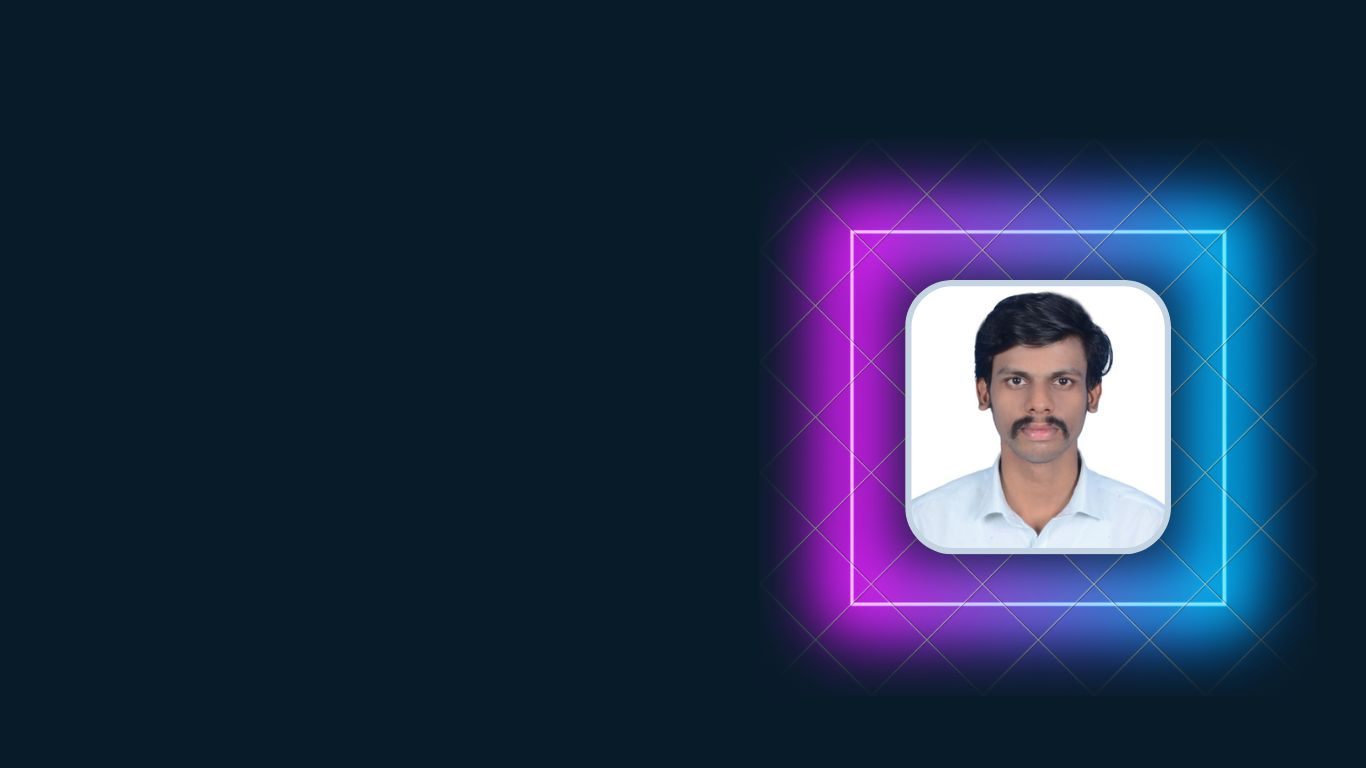
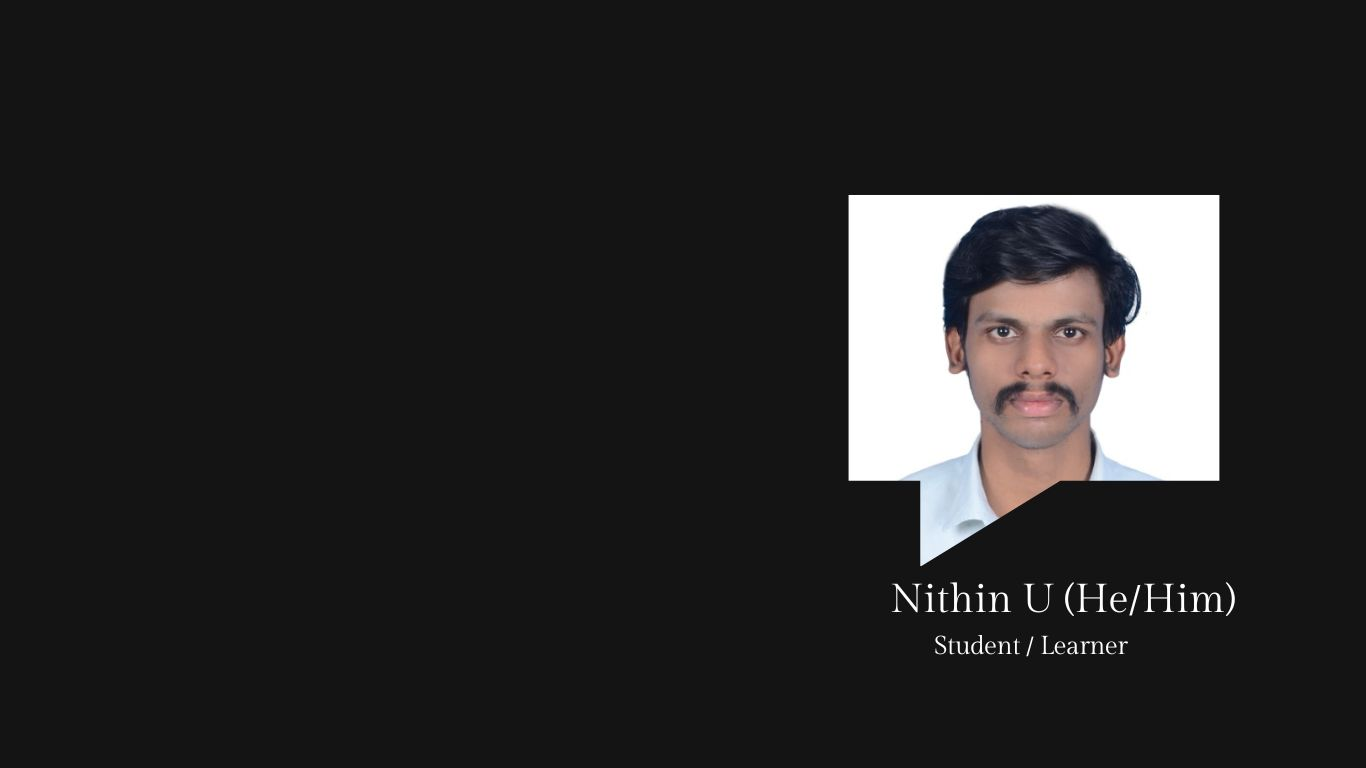
Update

Changed region(s): [[0.5534, 0.1562, 0.9839, 0.9062]]

diff --git a/style.css b/style.css
@@ -7,7 +7,7 @@
 
 body{
     color: aliceblue;
-    background: #081b29;
+    background: #141414;
 }
 
 .header{
@@ -16,7 +16,7 @@ body{
     left: 0;
     width: 100%;
     padding: 20px 10%;
-    background: #051129;
+    background: #081b29;
     display: flex;
     justify-content: space-between;
     align-items: center;
@@ -53,13 +53,13 @@ body{
 }
 
 #home:hover{
-    color: #0ef;
+    color:    #FFD700 ;
 }
 
 
 
 .navbar a:hover{
-    color: #0f0;
+    color:    #FFD700 ;
     cursor: pointer;
 }
 
@@ -93,7 +93,7 @@ body{
 }
 
 .home-content h3 span{
-    color: #0ef;
+    color:    #FFD700 ;
 }
 
 .home-content h1{
@@ -115,10 +115,10 @@ body{
     width: 40px;
     height: 40px;
     background: transparent;
-    border: 2px solid #0ef;
+    border: 2px solid    #FFD700 ;
     border-radius: 50%;
     font-size: 20px;
-    color: #0ef;
+    color:    #FFD700 ;
     text-decoration: none;
     margin: 30px 15px 30px 0;
 
@@ -130,15 +130,15 @@ body{
 }
 
 .home-sci a:hover{
-    background: #0ef;
+    background:    #FFD700 ;
     color: black;
-    box-shadow: 0 0 20px #0ef;
+    box-shadow: 0 0 20px    #FFD700 ;
 }
 
 .btn-box{
     display: inline-block;
     padding: 12px 28px;
-    background: #0ef;
+    background:    #FFD700 ;
     border-radius: 40px;
     font-size: 16px;
     color: black;
@@ -149,8 +149,8 @@ body{
     opacity: 0;
     animation: top 1s ease forwards;
     animation-delay: 2s;
-    box-shadow: 0 0 5px #0ef
-    0 0 25px #0ef;
+    box-shadow: 0 0 5px    #FFD700 
+    0 0 25px    #FFD700 ;
 }
 
 .btn-box:hover{
@@ -277,7 +277,7 @@ body{
 }
 
 .about-text h2 span{
-    color: #0ef;
+    color:    #FFD700 ;
 }
 
 .about-text h4{
@@ -303,7 +303,7 @@ body{
 }
 
 .skilltitle span{
-    color: #0ef;
+    color:    #FFD700 ;
 }
 
 .skill{
@@ -374,7 +374,7 @@ body{
 
 .Technical-bar .bar .percent-line span{
     height: 100%;
-    background-color: #0ef;
+    background-color:    #FFD700 ;
     position: absolute;
     border-radius: 10px;
     animation: animi 1s 1s cubic-bezier(1,0,0.5,1) forwards;
@@ -498,7 +498,7 @@ body{
 
 .path{
     stroke-width: 10;
-    stroke: #0ef;
+    stroke:    #FFD700 ;
     fill: transparent;
     stroke-dasharray: 502;
     stroke-dashoffset: 502;
@@ -538,7 +538,7 @@ body{
 
 @keyframes path5 {
     100%{
-        stroke-dashoffset: 130;
+        stroke-dashoffset: 135;
     }
 }
 
@@ -580,7 +580,7 @@ input[type=text], select, textarea {
   }
   
   input[type=submit] {
-    background-color: #0ef;
+    background-color:    #FFD700 ;
     padding: 12px 20px;
     border: none;
     border-radius: 4px;
@@ -594,7 +594,7 @@ input[type=text], select, textarea {
   }
   
   input[type=submit]:hover {
-    background-color: #0ef;
+    background-color:    #FFD700 ;
   }
   
   .contactcontainer{
@@ -604,3 +604,21 @@ input[type=text], select, textarea {
     width: 500px;
     margin-left: 350px;
   }
+
+
+  .main-text{
+    padding-top: 130px;
+    margin-top: 200px;
+  }
+
+  .main-text h2{
+    font-size: 60px;
+    line-height: 1;
+    text-align: center;
+  }
+
+  .main-text h2 span{
+    color:    #FFD700 ;
+  }
+
+  

diff --git a/index.html b/index.html
@@ -48,13 +48,13 @@
         <!-- About page-->
         <section class="about" id="about" >
             <div class="about-img">
-                <img src="Assets/ProfileAbout.jpg">
+                <img src="Assets/ImageProfile.jpg">
             </div>
             <div class="about-text">
                 <h2>About<span>Me</span></h2>
                 <h4>Student from K.Ramakrishnan College of Technology!</h4>
                 <p align="justify">
-                    I am 3rd Year Student, who is passionated on programming and seeking for a role inorder with 
+                    Vice Precident of CSE Mastro Club of KRCT Pursing Final Year Computer Science Engineering, who is passionated on programming and seeking for a role inorder with 
                     strong and desire to solve various task in the field of software development. Throughout my 
                     academic play vital role in software development and implemented various projects. I am a 
                     hard worker and always looking for new technologies to improve my level of programming also 
@@ -208,6 +208,45 @@
             </div>
             </div>
 
+        </section>
+
+        <!-- Projects -->
+        <section>
+            <div id="portfolio" id="project">
+                <div class="main-text" id="project">
+                    <h2>Acadamic<span> Projects</span></h2>
+
+                    <div class="protfolio-context">
+
+                        <!-- <div class="'row">
+                            <img src="Assets/demo.jpg" width="40px">
+                            <div class="layer">
+                                <h5>Title</h5>
+                                <p>Description</p>
+                                <a href="#"><i class="bx bx-link-external" style="color: white;"></i></a>
+                            </div>
+                        </div> -->
+                        <!-- <div class="Technical-bar">
+                        <div class="bar">
+                            <i style="color: rgb(0, 255, 251);" class="bx bxl-java"></i>
+                            <div class="info">
+                                <span>JAVA</span>
+                            </div>
+                            <div class="percent-line java">
+                                <span></span>
+                            </div>
+                        </div>
+                        </div> -->
+
+
+                        
+
+                       
+                        </div>
+                    </div>
+
+                </div>
+            </div>
         </section>
 
         <!--Contact-->

diff --git a/thankyou.html b/thankyou.html
@@ -5,11 +5,18 @@
         submission
         </title>
         <link rel="icon" type="image/x-icon" href="Assets/submit.png" >
+        <style>
+            body{
+                display: flex;
+                justify-content: center;
+                align-items: center;
+                height: 100vh;
+                margin: 0;
+              }
+        </style>
     </head>
     <body>
-        <center>
-        <h1> ThankYou for your query...! I'll get back soon with an reply</h1>
-        <p><a href="https://nithinu2802.github.io/#contact">ClickMe</a> to back to the page</p>
-        </center>
+        <h1> ThankYou for your query...! I'll get back soon with an reply
+        <b><a href="https://nithinu2802.github.io/#contact">ClickMe</a></b> to back to the page</h1>
     </body>
 </html>

diff --git a/script.js b/script.js
@@ -1,5 +1,5 @@
 var typed= new Typed(".text", {
-    strings: ["Student", "Job Seeker", "Learner"],
+    strings: ["Student", "Vice President", "Learner"],
     typeSpeed: 100,
     backSpeed: 100,
     backDelay: 1000,
